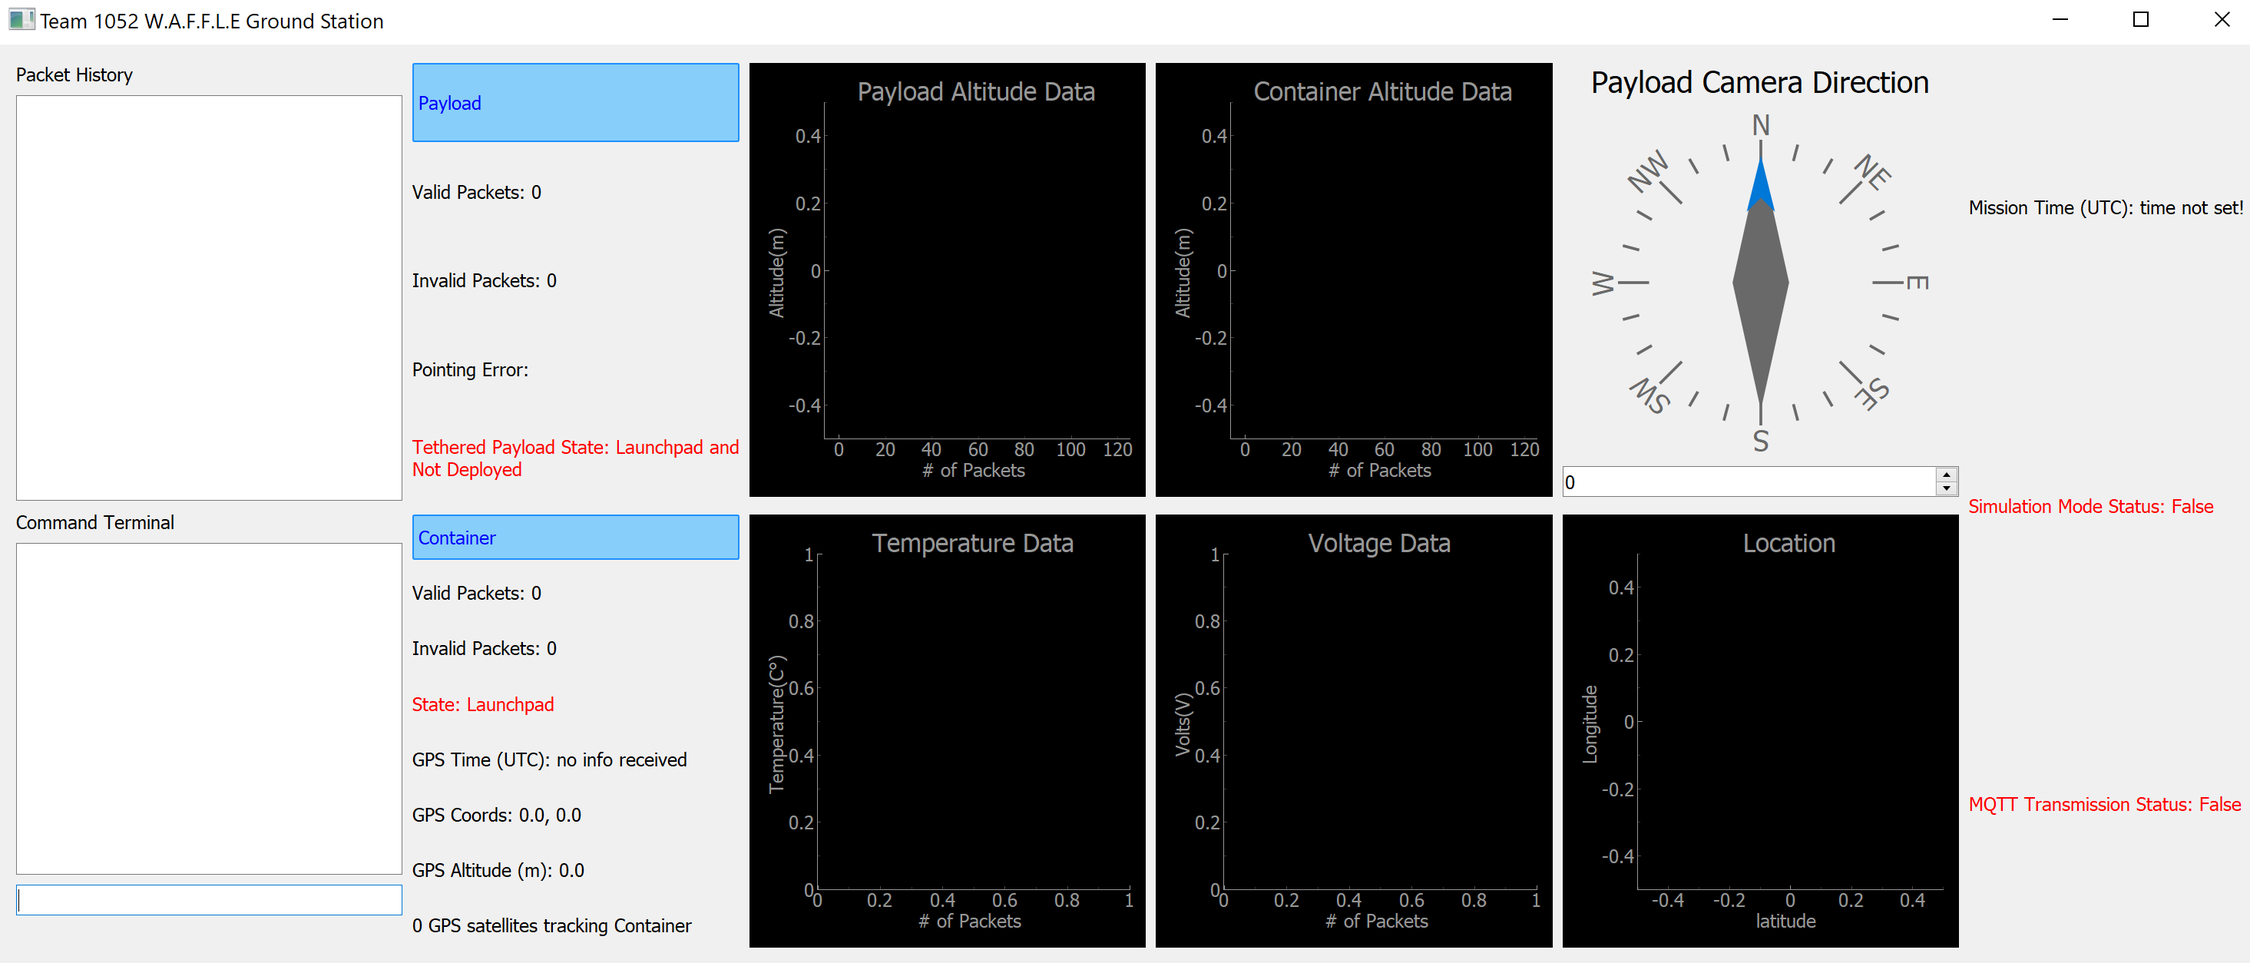
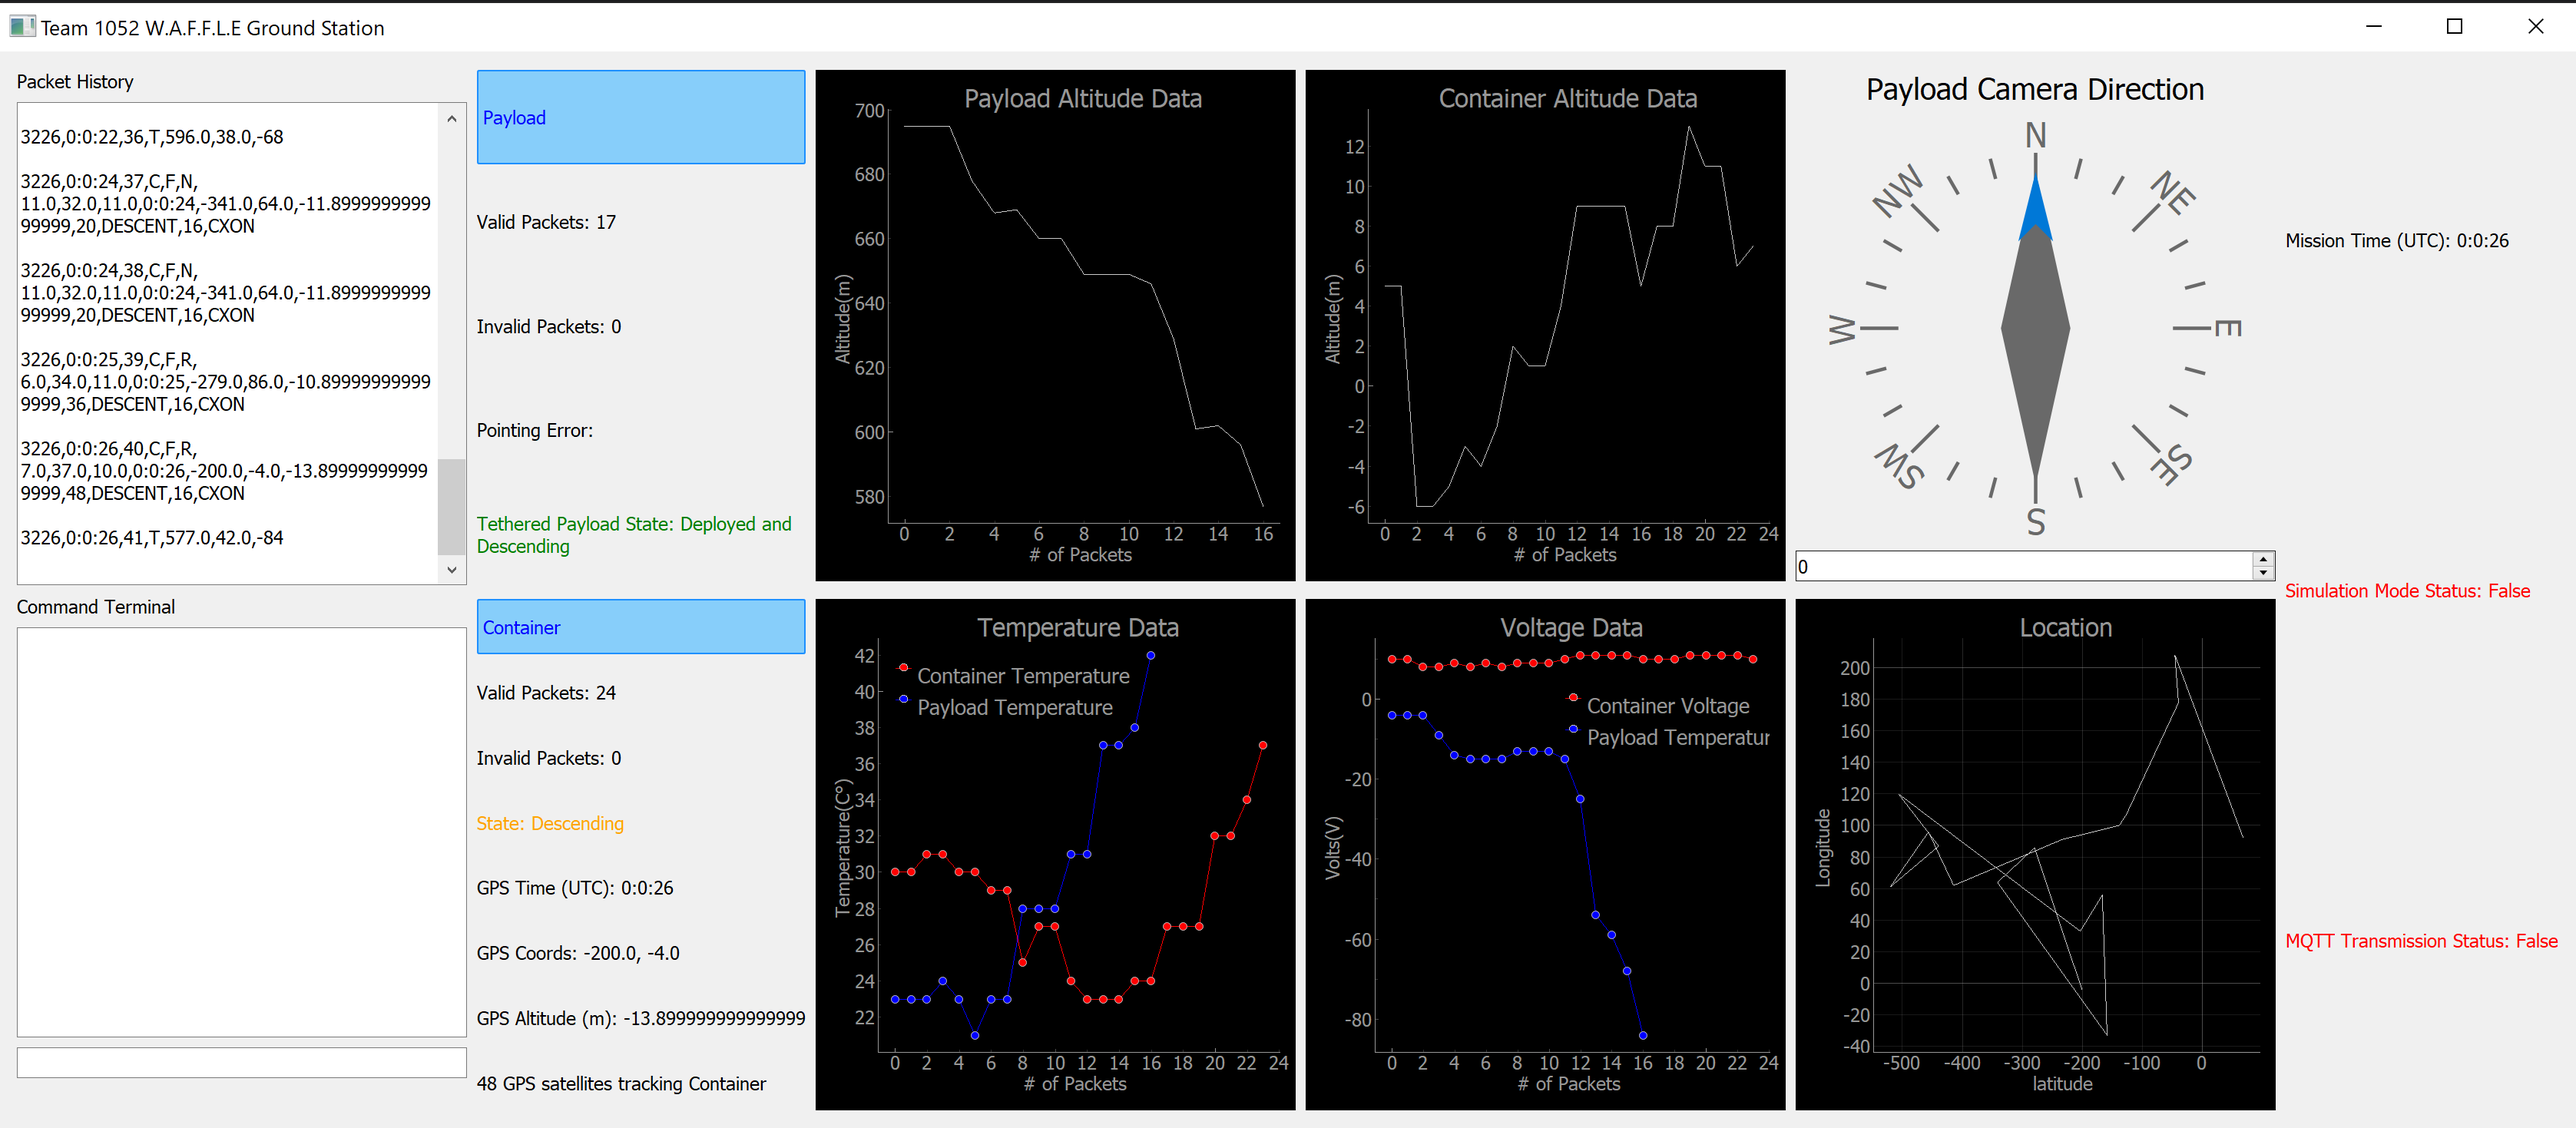
fixed testing. ty josh. updated gcs pic

diff --git a/GCS/states.py b/GCS/states.py
@@ -106,17 +106,14 @@ def updateContainerState(state):
         containerState.setText("State: Landed")
         containerState.setStyleSheet("color: purple")
 
-def update_packet_count(packetCount, sp1PacketCount, sp2PacketCount):
+def update_packet_count(packetCount, sp1PacketCount):
     # update variables
     global pay1ValidPackets, conValidPackets
-    if packetCount + sp1PacketCount + sp2PacketCount == -3:
+    if packetCount + sp1PacketCount == -2:
         pay1ValidPackets += 1
-    elif packetCount + sp1PacketCount + sp2PacketCount == -6:
-        pay2ValidPackets += 1
     else:
         pay1ValidPackets = sp1PacketCount
-        pay2ValidPackets = sp2PacketCount
-        conValidPackets = packetCount - sp1PacketCount - sp2PacketCount
+        conValidPackets = packetCount - sp1PacketCount
 
     # update labels
     pay1ValidPacketLabel.setText("Valid Packets: " + str(pay1ValidPackets))
@@ -141,12 +138,12 @@ def update_state(packet):
     if packet_args[3] == "C":
         # update states
         updatePayload1State(packet_args[5])
-        updateContainerState(packet_args[15])
+        updateContainerState(packet_args[14])
 
         # update gps information
-        update_gps(packet_args[10], packet_args[11], packet_args[12], packet_args[13], packet_args[14])
+        update_gps(packet_args[9], packet_args[10], packet_args[11], packet_args[12], packet_args[13])
 
         # next, update packet counts regardless of type of packet
-        update_packet_count(int(packet_args[2]), int(packet_args[16]), int(packet_args[17]))
+        update_packet_count(int(packet_args[2]), int(packet_args[15]))
     elif packet_args[3] == "T":
-        update_packet_count(-1, -1, -1)
+        update_packet_count(-1, -1)
